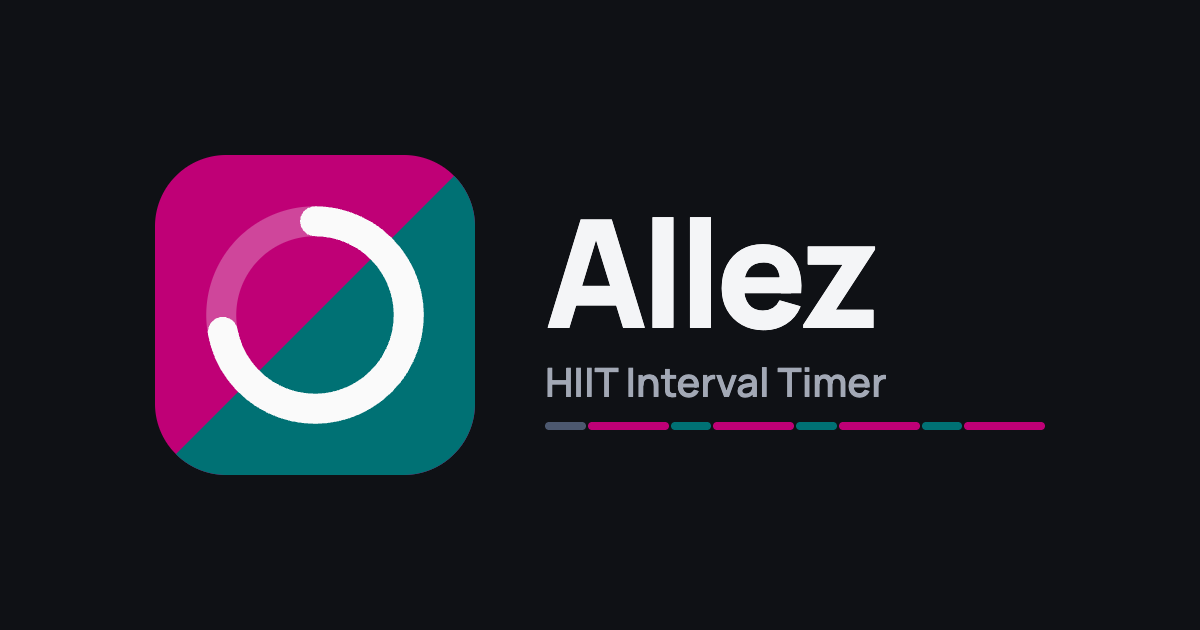
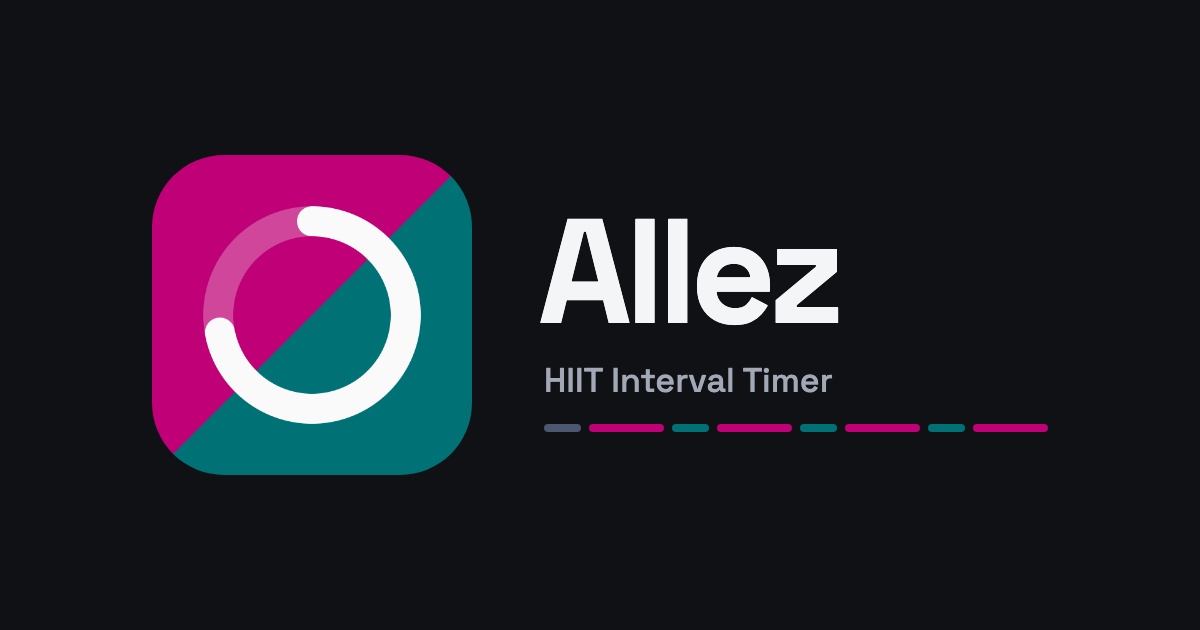
site: redraw the social card in Space Grotesk
The card was a picture from the design package, still lettered in
Manrope after the app moved to Space Grotesk. It is now rebuilt from the
same parts, the icon, the wordmark, the subtitle and the routine bar,
with the wordmark in the new face. The HTML source lives in tools/, so
the card can be redrawn again when anything changes.

diff --git a/tools/og-image.html b/tools/og-image.html
@@ -1,0 +1,27 @@
+<!doctype html>
+<!-- The source of assets/og-image.png. Render it at 1200x630 with headless
+     Chrome and copy the result over the PNG:
+       chrome --headless=new --window-size=1200,630 --screenshot=og.png tools/og-image.html
+     The icon next to this file is web/icon-512.png from the design package. -->
+<html><head><meta charset="utf-8">
+<link href="https://fonts.googleapis.com/css2?family=Space+Grotesk:wght@500;700&display=swap" rel="stylesheet">
+<style>
+  html, body { margin: 0; }
+  body { width: 1200px; height: 630px; background: #0F1115; display: flex; align-items: center; justify-content: center; gap: 72px; font-family: "Space Grotesk", sans-serif; }
+  .icon { width: 320px; height: 320px; border-radius: 72px; display: block; }
+  .words { display: flex; flex-direction: column; }
+  .name { color: #F4F5F7; font-weight: 700; font-size: 148px; line-height: 1; letter-spacing: -0.045em; margin: 0 0 6px -6px; }
+  .sub { color: #A2A8B5; font-weight: 500; font-size: 34px; line-height: 1; margin: 12px 0 0; }
+  .bar { display: flex; gap: 8px; margin-top: 26px; width: 504px; }
+  .bar span { height: 8px; border-radius: 4px; background: #BF0076; flex: 2; }
+  .bar span.r { background: #007174; flex: 1; }
+  .bar span.g { background: #4C586F; flex: 1; }
+</style></head>
+<body>
+  <img class="icon" src="icon.png" alt="">
+  <div class="words">
+    <div class="name">Allez</div>
+    <div class="sub">HIIT Interval Timer</div>
+    <div class="bar"><span class="g"></span><span></span><span class="r"></span><span></span><span class="r"></span><span></span><span class="r"></span><span></span></div>
+  </div>
+</body></html>
